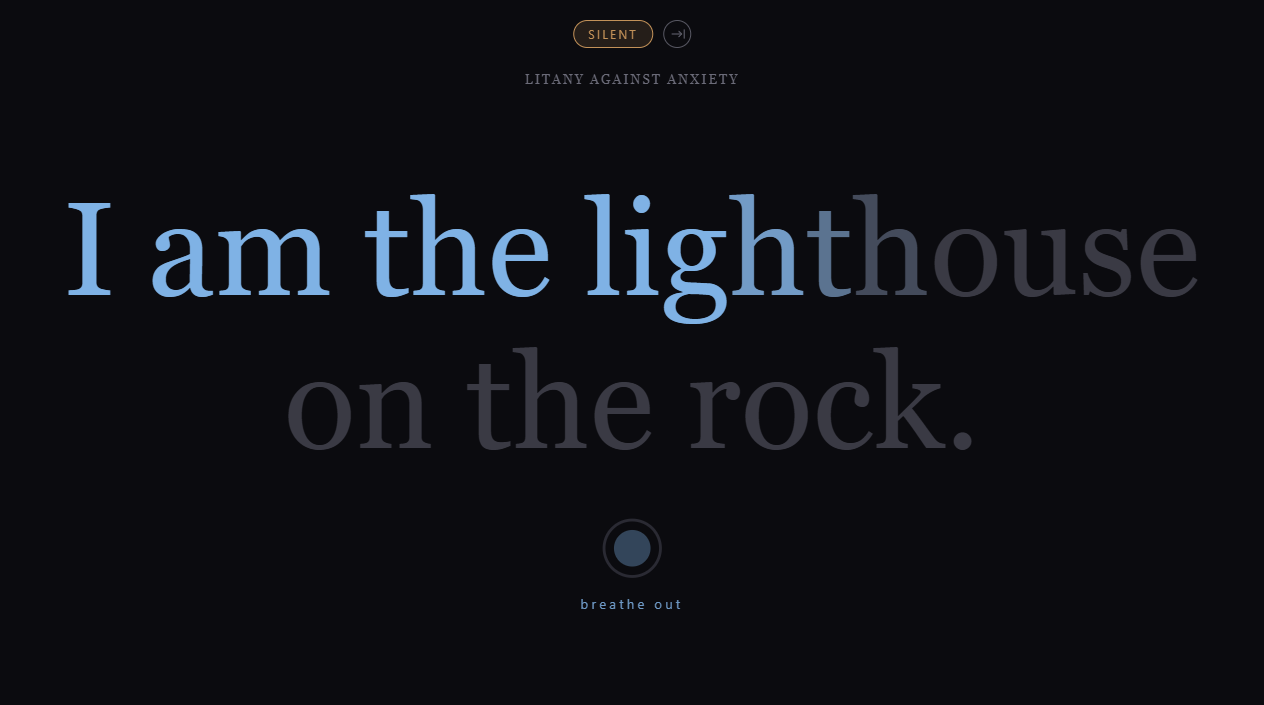
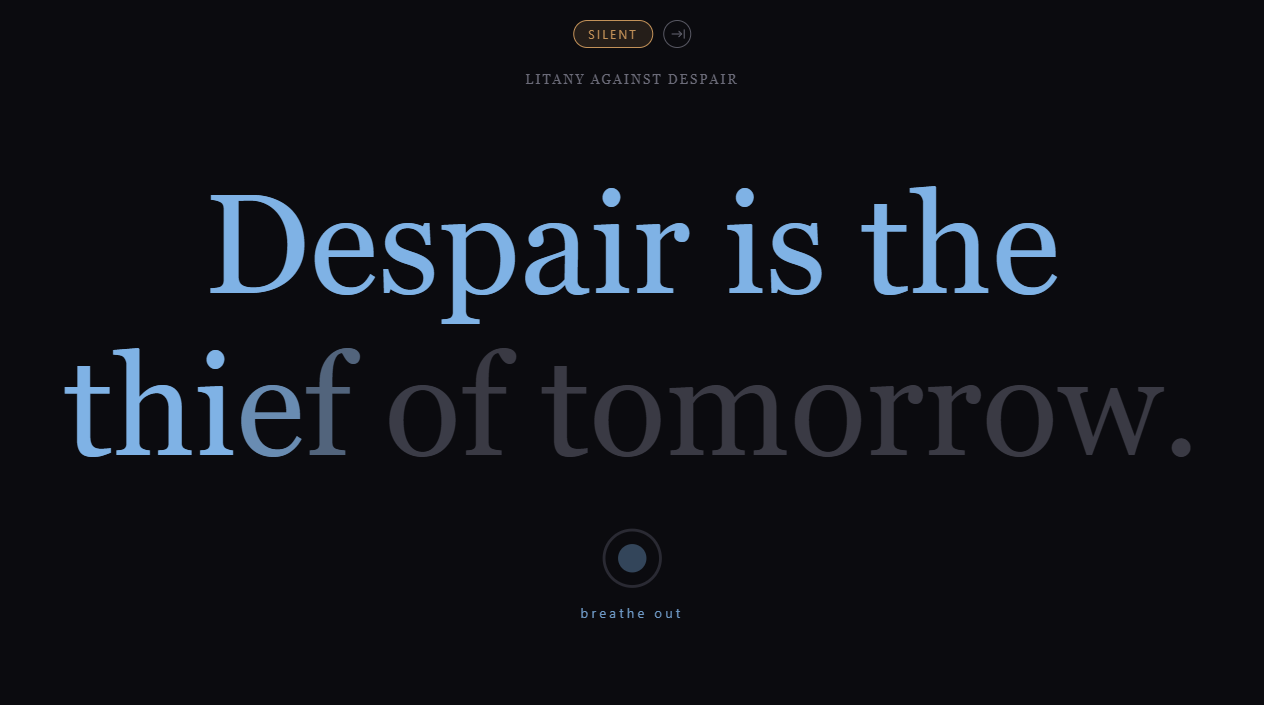
Full-width index, despair litany screenshots (v1.1.2)
The index scrolled inside a 640px column, so on wide screens a
scrollbar showed mid-page. The scroll box now spans the window and
the list is centred at up to 1200px, with less vertical padding, so
it fits without scrolling on most screens.

README screenshots now show the Litany Against Despair.

diff --git a/public/style.css b/public/style.css
@@ -69,7 +69,10 @@ button { font: inherit; color: inherit; background: none; border: 0; cursor: poi
 .muted { color: var(--muted); }
 
 /* Index */
-#index { max-width: 640px; margin: 0 auto; padding: 12vh 24px; overflow-y: auto; height: 100%; }
+/* Content up to 1200px wide, centred by the side padding, so the scroll box stays full width
+   and any scrollbar (only on short windows) sits at the window edge. */
+#index { padding: 8vh max(clamp(24px, 6vw, 96px), calc((100% - 1200px) / 2)); overflow-y: auto; height: 100%; }
+#index-msg:empty { display: none; }
 #index h1 { font-weight: normal; letter-spacing: 0.04em; color: var(--muted); font-size: 1.1rem; text-transform: uppercase; margin: 0; }
 #litany-list { list-style: none; padding: 0; margin: 0; }
 #litany-list button {
